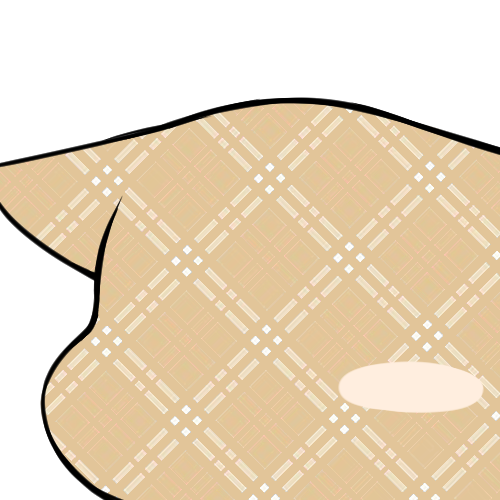
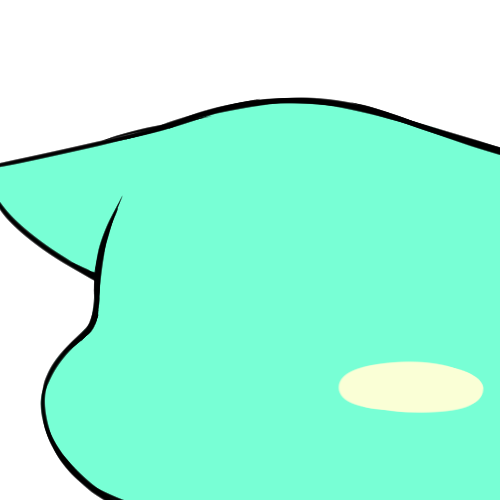
fix:셀렉버튼과 랜덤버튼 동기화 및 컬러소스 수정(0 <-> 16)

diff --git a/animal-app/src/component/SelectButton.jsx b/animal-app/src/component/SelectButton.jsx
@@ -7,16 +7,16 @@ const { Options } = require('./selectData')
 //셀렉트버튼 컴포넌트는 뷰 컴포넌트의 자식컴포넌트로 들어가지 않으니까 state & props로 값을 주고받기 힘들다. => App.jsx로 값을 올려보낸다.
 //각 컴포넌트들끼리 주고받을 값은 App 컴포넌트로 보내서, 다시 프롭스로 뿌려준다.
 function SelectButton({ setRandomFace, setRandomColor, setRandomEyes, setRandomMouth, setRandomAcc, setRandomPattern, setRandombackground
-  ,randomface, randomcolor, randomeyes, randommouth, randomacc, randompattern, randombackground }) {
+  , randomface, randomcolor, randomeyes, randommouth, randomacc, randompattern, randombackground }) {
   const [faceSelect, setFaceSelect] = useState(randomface);
   const [colorSelect, setColorSelect] = useState(randomcolor);
   const [eyesSelect, setEyesSelect] = useState(randomeyes);
-  const [mouthSelect, setMouthSelect] = useState( randommouth);
+  const [mouthSelect, setMouthSelect] = useState(randommouth);
   const [accSelect, setAccSelect] = useState(randomacc);
   const [patternSelect, setPatternSelect] = useState(randompattern)
   const [backgroundSelect, setBackgroundSelect] = useState(randombackground);
   const [audio, setAudio] = useState(false)
-
+  console.log(randombackground)
 
   const faceOptions = Options[0]
   const colorOptions = Options[1]
@@ -28,7 +28,6 @@ function SelectButton({ setRandomFace, setRandomColor, setRandomEyes, setRandomM
 
 
 
-
   const allrandomBtn = () => {
     console.log("올 랜덤버튼 눌렸다")
     setRandomFace(Math.round(Math.random() * 8))
@@ -37,7 +36,7 @@ function SelectButton({ setRandomFace, setRandomColor, setRandomEyes, setRandomM
     setRandomMouth(Math.round(Math.random() * 11))
     setRandomAcc(Math.round(Math.random() * (30 - 1)) + 1)
     setRandomPattern(Math.round(Math.random() * (6 - 1)) + 1)
-    setRandombackground(Math.round(Math.random() * (19-1)) +1)
+    setRandombackground(Math.round(Math.random() * (19 - 1)) + 1)
     setAudio(!audio)
     setTimeout(() => { setAudio(false) }, 300)
   }
@@ -151,39 +150,52 @@ function SelectButton({ setRandomFace, setRandomColor, setRandomEyes, setRandomM
           <li><button type='button' value='button' className='randomBtn_Design' onClick={randomBackgroundBtn}>배경 랜덤</button></li>
         </ul>
         <ul className='selectBtn_box'>
+
           <li>
             <select className='selectBtn_Design' onChange={faceselectBtn} value={randomface}>
               {faceOptions.faceselect.map((item, index) => (<option key={item.key} value={item.key}>{item.value}</option>))}
             </select>
           </li>
+
+
           <li>
-            <select className='selectBtn_Design' onChange={colorselectBtn} value={randomcolor}>
+            {randomcolor < 16 ? <select className='selectBtn_Design' onChange={colorselectBtn} value={randomcolor}>
               {colorOptions.colorselect.map((item, index) => (
                 <option key={item.key} value={item.key}>{item.value}</option>
-              ))}
-            </select>
+              ))}</select>
+              : <select className='selectBtn_Design' onChange={colorselectBtn} value={randomcolor}>
+                <option >🎉레어 컬러🎉</option>
+              </select>}
           </li>
+
           <li>
-            <select className='selectBtn_Design' onChange={eyesselectBtn} value={randomeyes}>
+            {randomeyes < 13 ? <select className='selectBtn_Design' onChange={eyesselectBtn} value={randomeyes}>
               {eyesOptions.eyesselect.map((item, index) => (
                 <option key={item.key} value={item.key}>{item.value}</option>
-              ))}
-            </select>
+              ))}</select>
+              : <select className='selectBtn_Design' onChange={eyesselectBtn} value={randomeyes}>
+                <option >🎉레어 눈🎉</option>
+              </select>}
           </li>
+
+
           <li>
-            <select className='selectBtn_Design' onChange={mouthselectBtn} value={randommouth}>
+            {randommouth < 11 ? <select className='selectBtn_Design' onChange={mouthselectBtn} value={randommouth}>
               {mouthOptions.mouthselect.map((item, index) => (
                 <option key={item.key} value={item.key}>{item.value}</option>
-              ))}
-            </select>
+              ))}</select>
+              : <select className='selectBtn_Design' onChange={mouthselectBtn} value={randommouth}>
+                <option >🎉레어 입🎉</option> </select>}
           </li>
+
           <li>
-            <select className='selectBtn_Design' onChange={accselectBtn} value={randomacc}>
+            {<select className='selectBtn_Design' onChange={accselectBtn} value={randomacc}>
               {accOptions.accselect.map((item, index) => (
                 <option key={item.key} value={item.key}>{item.value}</option>
               ))}
-            </select>
+            </select>}
           </li>
+
           <li>
             <select className='selectBtn_Design' onChange={patternselectBtn} value={randompattern}>
               {patternOptions.patternselect.map((item, index) => (
@@ -191,13 +203,16 @@ function SelectButton({ setRandomFace, setRandomColor, setRandomEyes, setRandomM
               ))}
             </select>
           </li>
+
           <li>
-            <select className='selectBtn_Design' onChange={backgroundselectBtn} value={randombackground}>
+            {randombackground < 12 ? <select className='selectBtn_Design' onChange={backgroundselectBtn} value={randombackground}>
               {backgroundOptions.backgroundselect.map((item, index) => (
                 <option key={item.key} value={item.key}>{item.value}</option>
-              ))}
-            </select>
+              ))}</select>
+              : <select className='selectBtn_Design' onChange={backgroundselectBtn} value={randombackground}>
+                <option>🎉레어배경🎉</option></select>}
           </li>
+
         </ul>
       </div>
       <div className='Button_group'>

diff --git a/animal-app/src/component/selectData.jsx b/animal-app/src/component/selectData.jsx
@@ -15,7 +15,8 @@ module.exports.Options = [
     ,
     {
         colorselect:
-            [
+            [   
+                { key: 0, value: "민트" },
                 { key: 1, value: "베이지" },
                 { key: 2, value: "브라운" },
                 { key: 3, value: "살구" },
@@ -31,7 +32,8 @@ module.exports.Options = [
                 { key: 13, value: "코발트블루" },
                 { key: 14, value: "퍼플" },
                 { key: 15, value: "오렌지" },
-                { key: 16, value: "민트" }]
+            ]
+                
     }
     ,
     {
@@ -115,6 +117,7 @@ module.exports.Options = [
     }
     ,
     {backgroundselect : [  
+        {key:1, value:"코발트블루"},
         {key:2, value:"레드"},
         {key:3, value:"옐로우"},
         {key:4, value:"피치"},
@@ -126,7 +129,7 @@ module.exports.Options = [
         {key:10, value:"제주감귤"},
         {key:11, value:"짙은차콜"},
         {key:12, value:"아이보리"},
-        {key:13, value:"코발트블루"}
+        
     ]}
 
 
